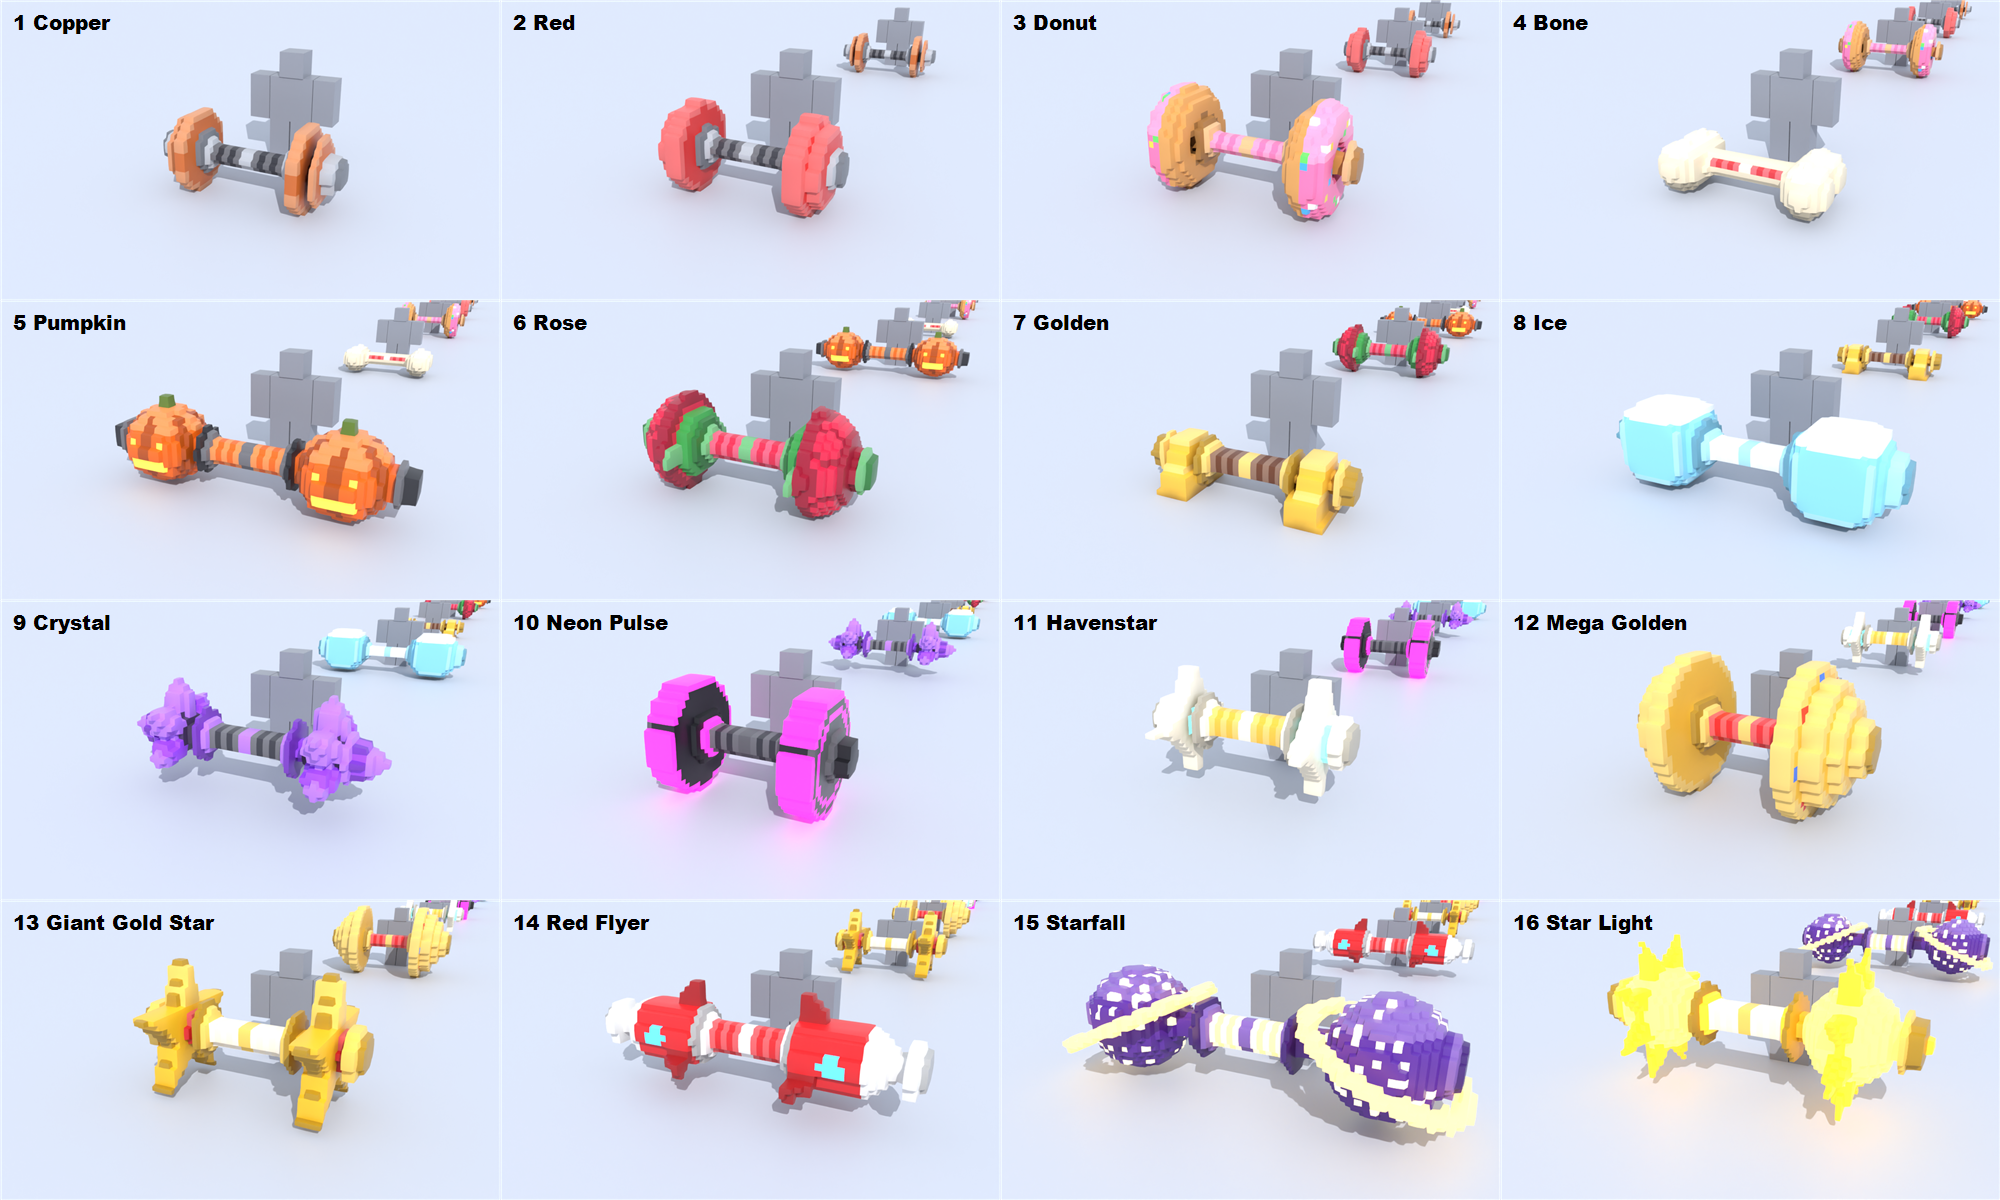
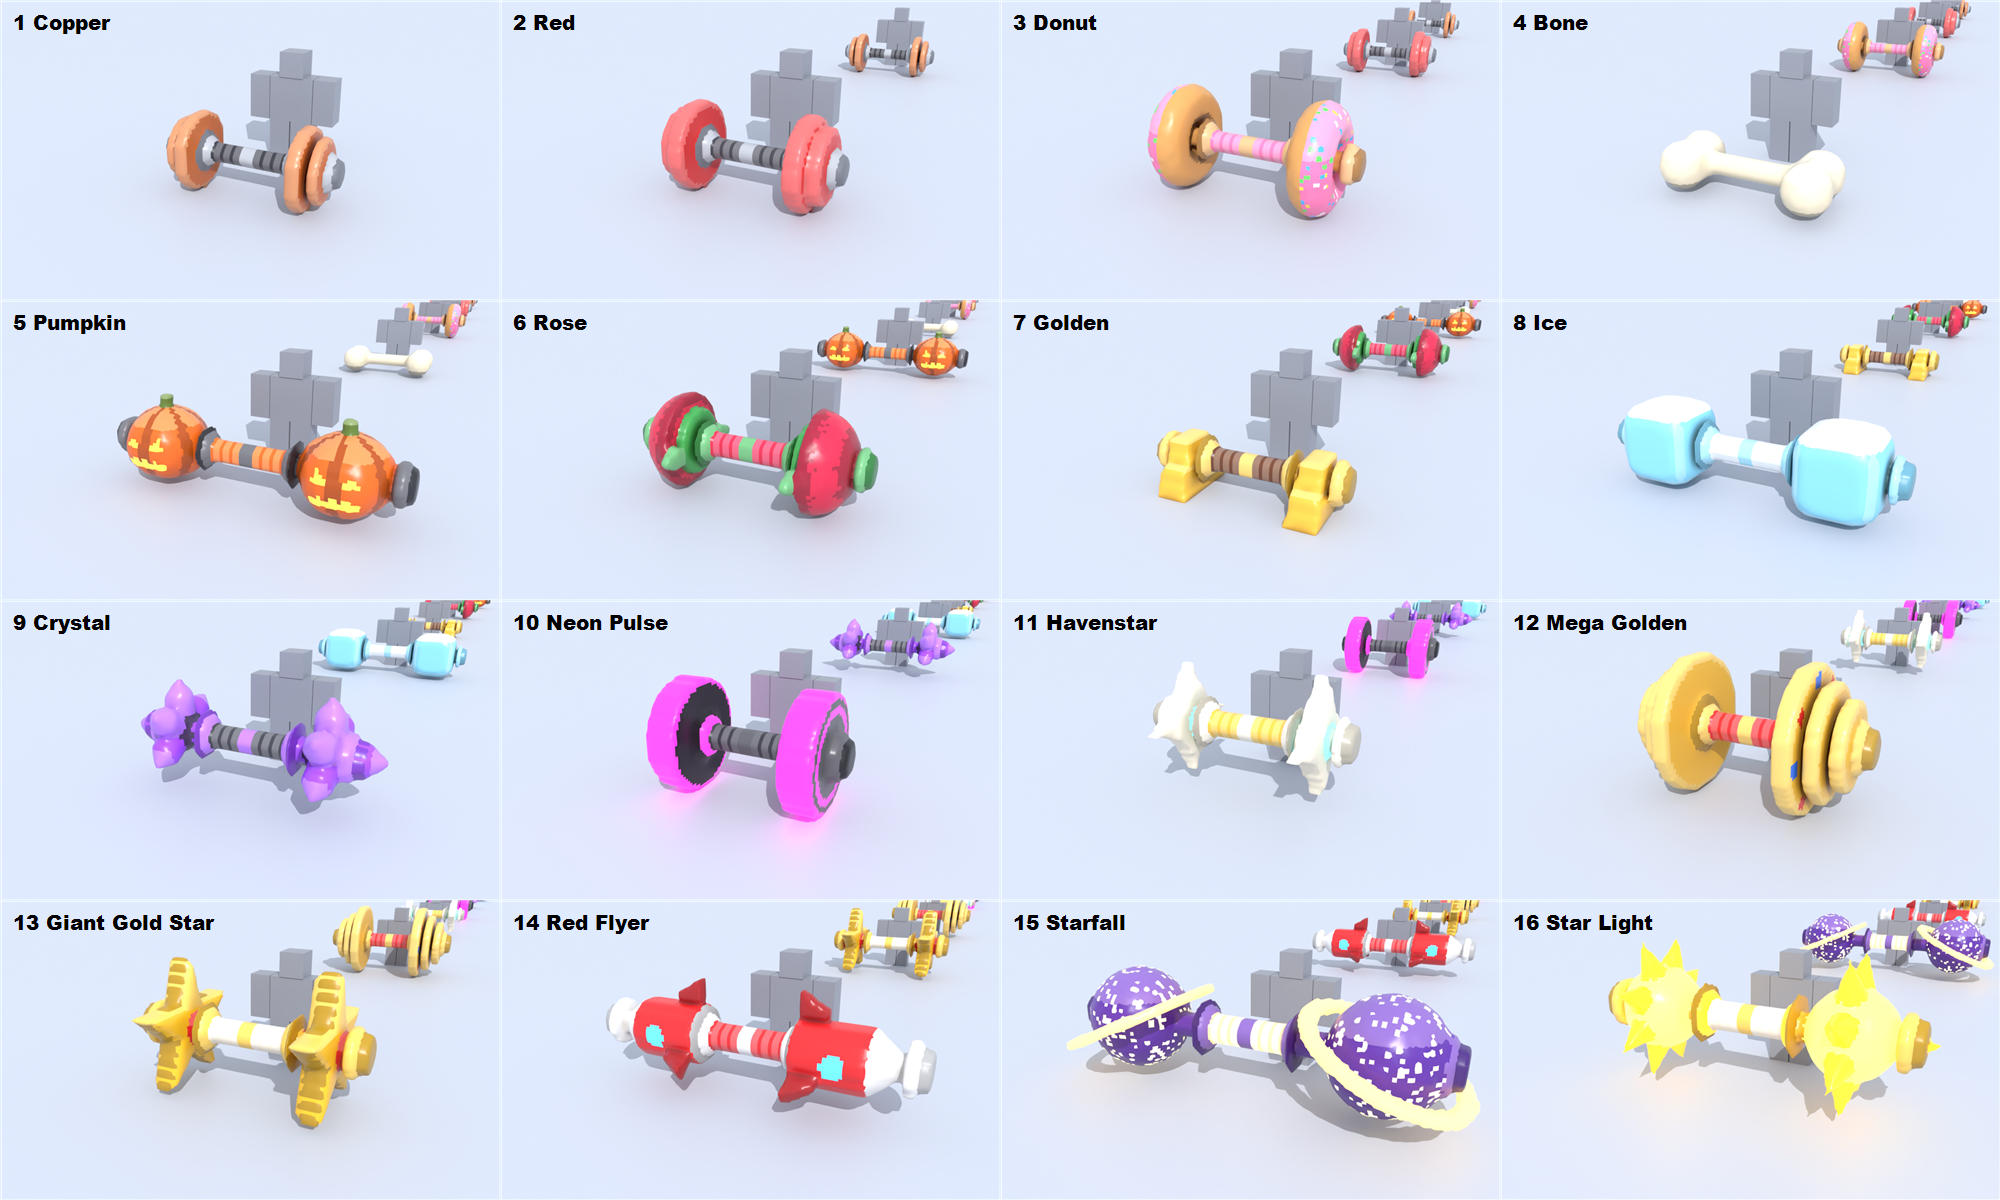
Only your own lifting makes sounds; smoother barbell v2 concepts

diff --git a/models/items/barbells_v2/_tiers.py b/models/items/barbells_v2/_tiers.py
@@ -14,8 +14,9 @@ BASE.update({
 })
 GLOW = GLOW + ("Carve",)
 # pigeon: "ur making them a bit too high quality" -> chunkier steps, less rounding, fewer small details
-C = 0.25
-LOWQ_ITERS = 1
+C = 0.14      # pigeon: 0.25 was "so voxely/pixely", 0.125 + detail was "too high quality": fine steps, simple shapes
+SMOOTH = 0.65
+LOWQ_ITERS = 4
 
 
 def t_copper(x, y, z, i, j, k):

diff --git a/UPDATES.md b/UPDATES.md
@@ -2,6 +2,11 @@
 
 Newest first. Each Claude adds an entry after every work session (format in [CLAUDE.md](CLAUDE.md)).
 
+## 2026-11-12 01:00 CT · pigeon-claude
+**Done:** (1) pigeon: "I can hear other ppl working out, I don't like that". `StarterGui.HUD.LiftTapHUD.LiftTapClient`: other lifters' rep thud/drop (`sfxAt`) no longer plays; `WorkoutClient.dropIn`: the crash when a new weight drops onto a rack only plays for your own plot. Their sparkles/poofs still show. Play-tested, no errors. (2) Barbell v2 concepts re-rendered smoother (pigeon: blocky ones "so voxely/pixely"): step 0.14, 4 smoothing passes, same simple shapes (`barbells_v2_all16.png`; blocky kept as `_blocky.png`). The showroom in Studio still has the blocky ones until pigeon OKs these.
+**Next:** pigeon's yes/no on the smoother set -> re-upload into `Workspace.BarbellShowcase`.
+**Blockers / questions:** -
+
 ## 2026-11-11 21:15 CT · jacob-claude
 **Done:** `CodesMenu.CodesPanel.HintLabel` now reads "FOLLOW Stud Works Co on roblox to get EXCLUSIVE codes" (group that owns the game; SelfSized). `Workout`: stopping a lift puts you 7 studs off the mat (was 2.5) and there's a 2.5 s cooldown before you can start again. Saved.
 **Next:** Jacob publishes `RBX_ANIMSAVES.KickerRigR15.Celebrate`, then I set its AssetId.
